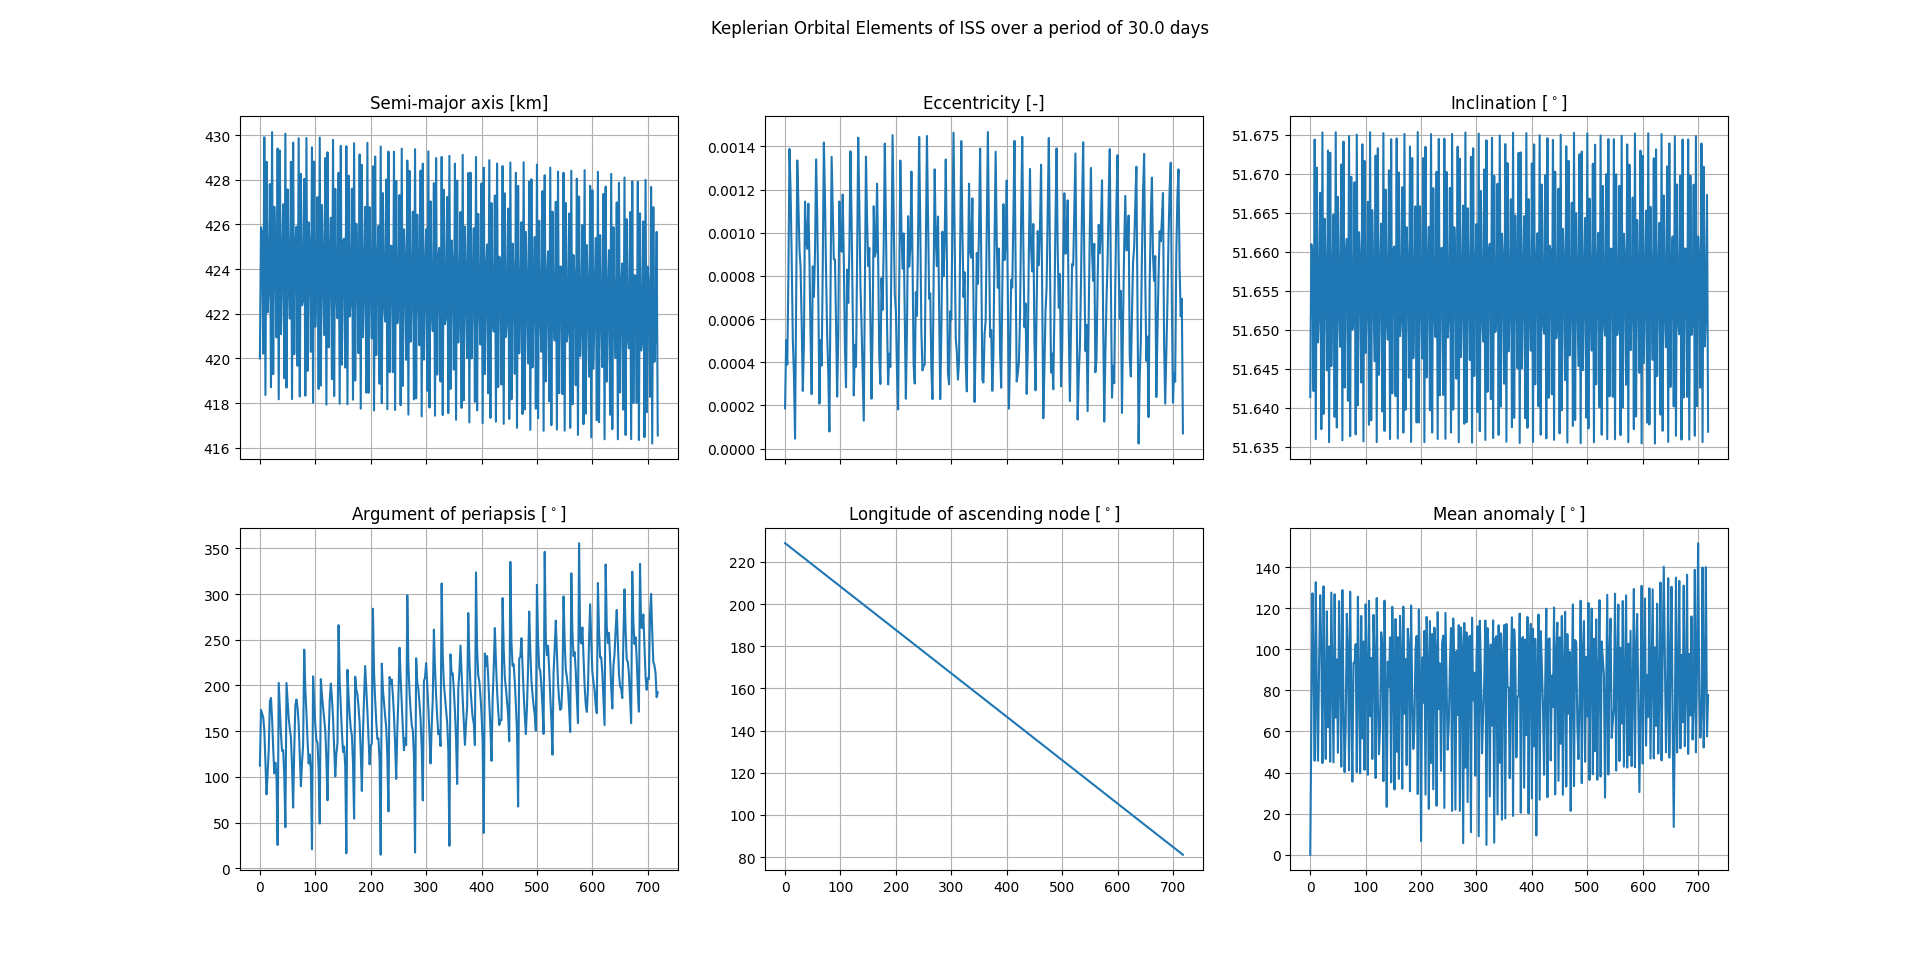
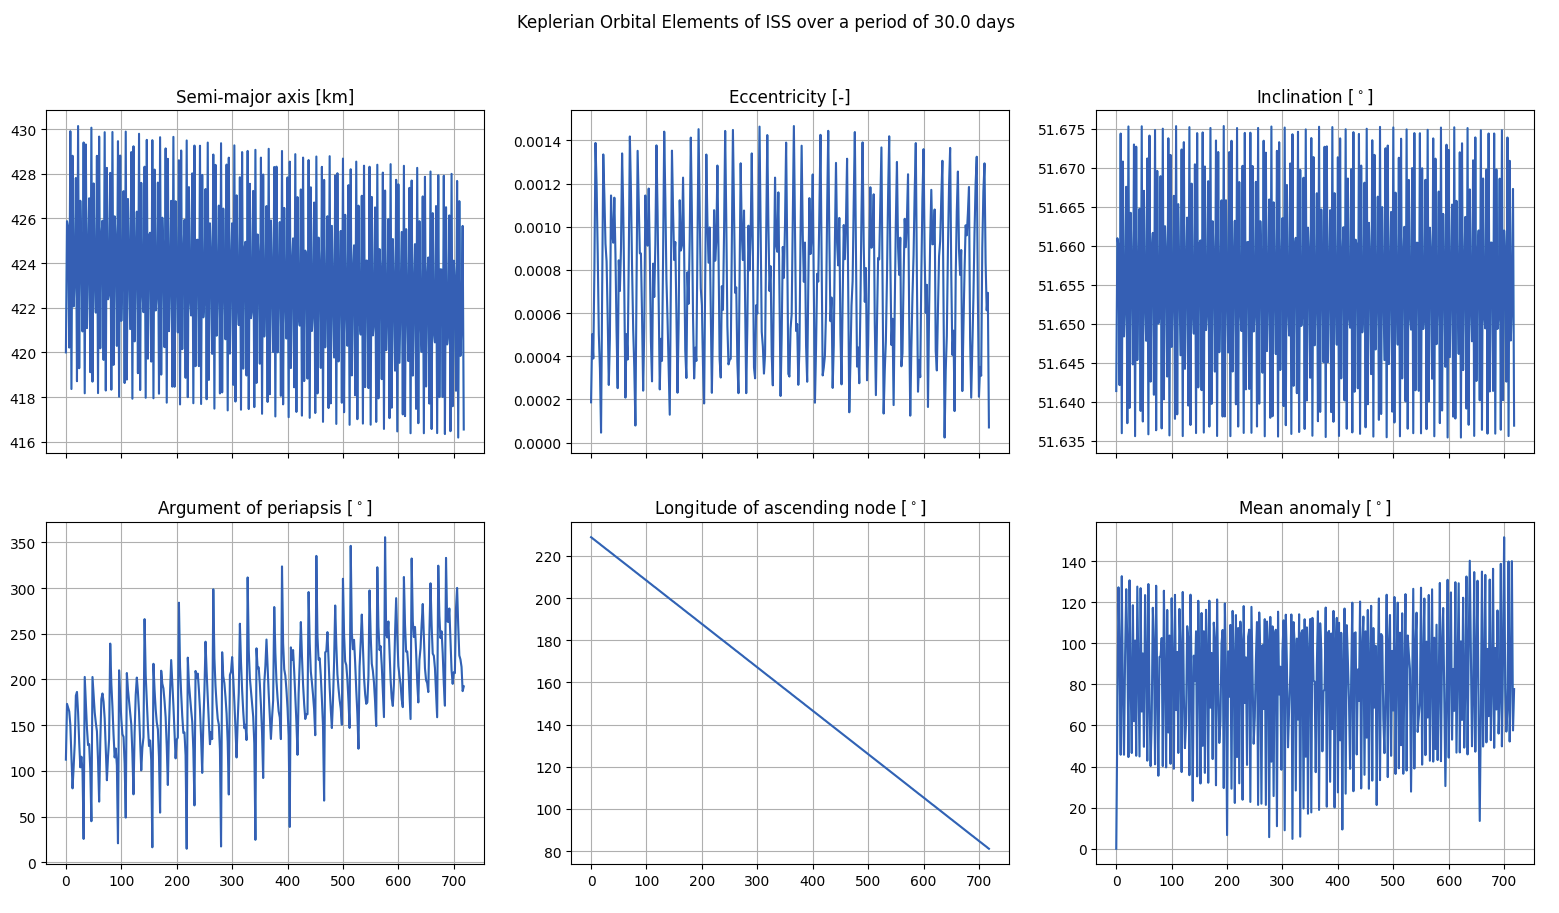
plot koes method added

diff --git a/src/nbody.py b/src/nbody.py
@@ -209,16 +209,19 @@ class TwoBodyPropagator(Propagator):
         #ax4.ticklabel_format(useOffset='False')
         ax4.plot(koe[:, 6], koe[:, 3])
         ax4.set_title('Argument of periapsis [$^\circ$]')
+        ax4.set_xlabel('Time [h]')
         ax4.grid(True)
 
         #ax5.ticklabel_format(useOffset='False')
         ax5.plot(koe[:, 6], koe[:, 4])
         ax5.set_title('Longitude of ascending node [$^\circ$]')
+        ax5.set_xlabel('Time [h]')
         ax5.grid(True)
-
+        
         #ax6.ticklabel_format(useOffset='False')
         ax6.plot(koe[:, 6], koe[:, 5])
         ax6.set_title('Mean anomaly [$^\circ$]')
+        ax6.set_xlabel('Time [h]')
         ax6.grid(True)
 
 
